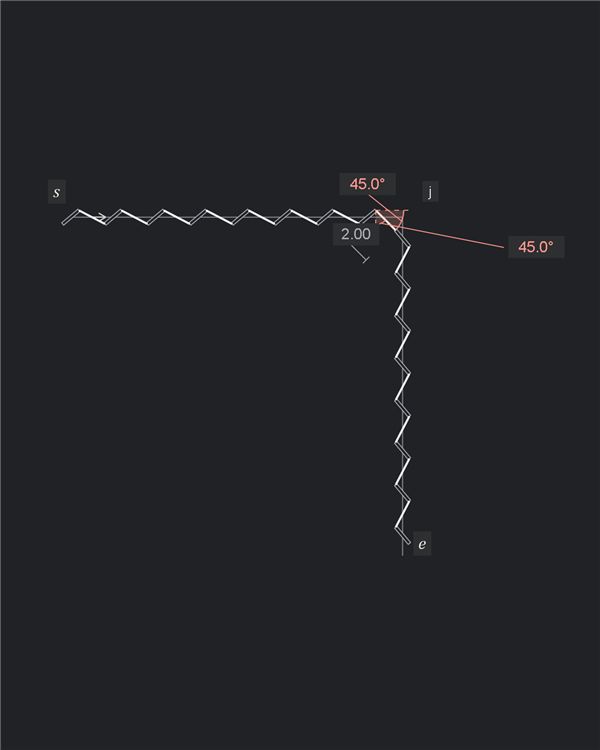
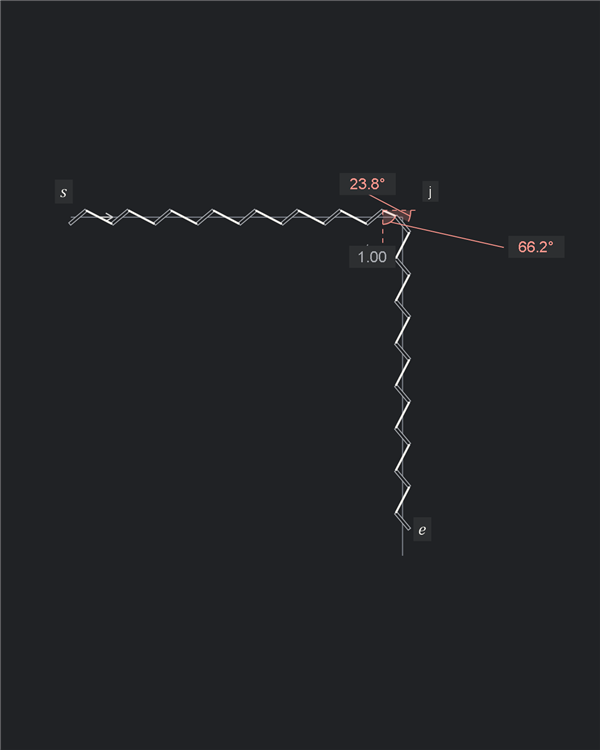
Loop Bridge smoothly between 1 and 3 mm with half-second holds

Changed region(s): [[0.09, 0.2147, 0.81, 0.736], [0.87, 0.3067, 0.93, 0.3373]]

diff --git a/examples/illustrated/README.md b/examples/illustrated/README.md
@@ -36,7 +36,7 @@ Use **Build → Adjustment → Stitch**, in that order.
 
 - Continue from the previous example's established layout; do not replay Build unnecessarily
 - Skip Adjustment when nothing changes; do not invent corrections to fill a phase
-- Bridge is an explicit final-phase comparison: retain faded slits and visible thread throughout movement; update length and red angles live, with four-second holds at both positions
+- Bridge is an explicit final-phase comparison: retain faded slits and visible thread throughout movement; update length and red angles live, with half-second holds at both positions
 - Static stitched figures are the final Stitch state, including the same lightened measurements
 - Clearance is a static construction view: no thread, no fade; retain the slit outlines, measurements and pass/fail marks
 - Keep existing image paths working when changing animation to static. Vertex point and Clearance export single-frame GIFs alongside their PNG/SVG stills; these GIFs contain no animation or loop
@@ -83,7 +83,7 @@ The common arm lengths are $L_i=np-c_i/2$, with $n=8$ and $c_i$ the signed shift
 
 Vertex point translates its vertical row upward by $0.4821\,\mathrm{mm}$. The fixed vertex hole then joins two equal $1.9574\,\mathrm{mm}$ visible stitches at $14.3^\circ$ to their respective arms. The final gaps into the hole are both $2.4717\,\mathrm{mm}$; internal arm gaps remain nominal. Move the outgoing virtual slit and end marker with the row. The still and compatibility GIF use this balanced layout.
 
-Bridge translates the vertical run between visible thread lengths of $2.00\,\mathrm{mm}$ and $3.00\,\mathrm{mm}$. The corresponding angle pairs are $45.0^\circ/45.0^\circ$ and $61.9^\circ/28.1^\circ$. Hold each for four seconds and interpolate over $1.5\,\mathrm{s}$ each way. The still uses the $2.00\,\mathrm{mm}$ position. The whole row and its end marker move; guides and incoming row stay fixed. Length targets are stored in the test catalog.
+Bridge advances the incoming row by $0.50\,\mathrm{mm}$ along its guide, preserving nominal pitch, so a $1.00\,\mathrm{mm}$ bridge is reachable. The vertical row then moves between $1.00$ and $3.00\,\mathrm{mm}$ of visible thread. Expand for $1.5\,\mathrm{s}$, hold for $0.5\,\mathrm{s}$, contract for $1.5\,\mathrm{s}$ and hold for $0.5\,\mathrm{s}$. Ease into each hold; omit duplicate endpoint frames and reset frames. Slits remain faded and thread stays visible throughout. The still uses the $1.00\,\mathrm{mm}$ position. Range, initial advance and endpoint hold are stored in the test catalog.
 
 The mirrored treatment reuses `diagonalCornerScene` with the Sellier construction parameters from `ILL-SELLIER-CORNER`, extended to the common arm lengths. Its rows stay nominal from the outer endpoints; only the final gaps into the vertex slit absorb the residuals. These are approximately $2.472\,\mathrm{mm}$ and $2.954\,\mathrm{mm}$; the first is below the Autostitch gap bound. Total absolute adjustment matches A6, but the adjusted-gap count does not. Both rows are present in the first frame; the vertical row immediately mirrors in place before the shared diagonal slit appears. Omit arm gap dimensions. Show only the two visible corner-thread lengths and red thread angles when the thread appears; length dimensions lighten with the slits.
 

diff --git a/docs/PITCH_skeleton.md b/docs/PITCH_skeleton.md
@@ -98,10 +98,10 @@
 
 ### Bridge
 
-![Bridge varies from 2 to 3 mm of visible thread while the corner angles change](../examples/illustrated/assets/problem-corner-bridge.gif)
+![Bridge varies from 1 to 3 mm of visible thread while the corner angles change](../examples/illustrated/assets/problem-corner-bridge.gif)
 
 - Thread bridges the last slit on each arm, bypassing the vertex
-- Move the vertical run to vary the visible bridge stitch from $2.00$ to $3.00\,\mathrm{mm}$; the red angles change with it
+- Move the vertical run to vary the visible bridge stitch from $1.00$ to $3.00\,\mathrm{mm}$; the red angles change with it
 - Both positions retain nominal arm spacing; the far endpoint moves with the row
 
 ### Shared diagonal slit with mirrored lean
